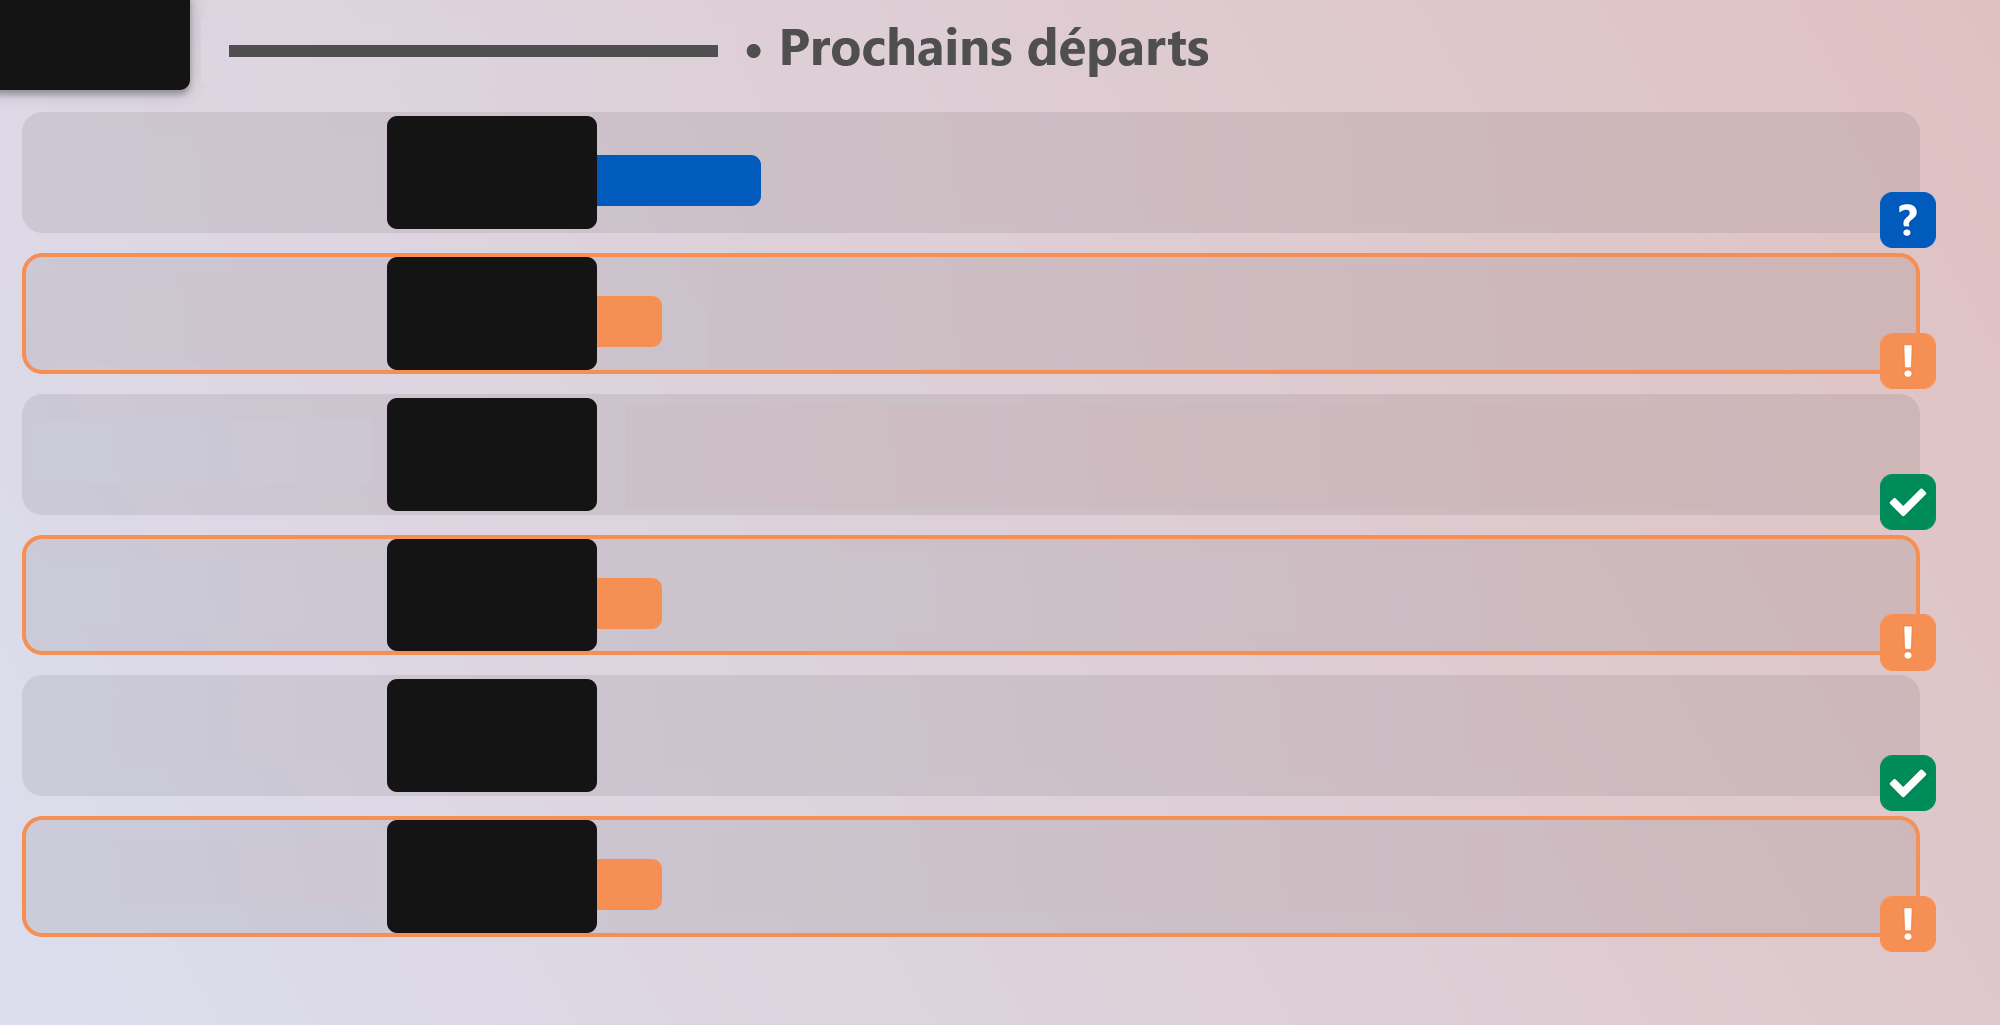
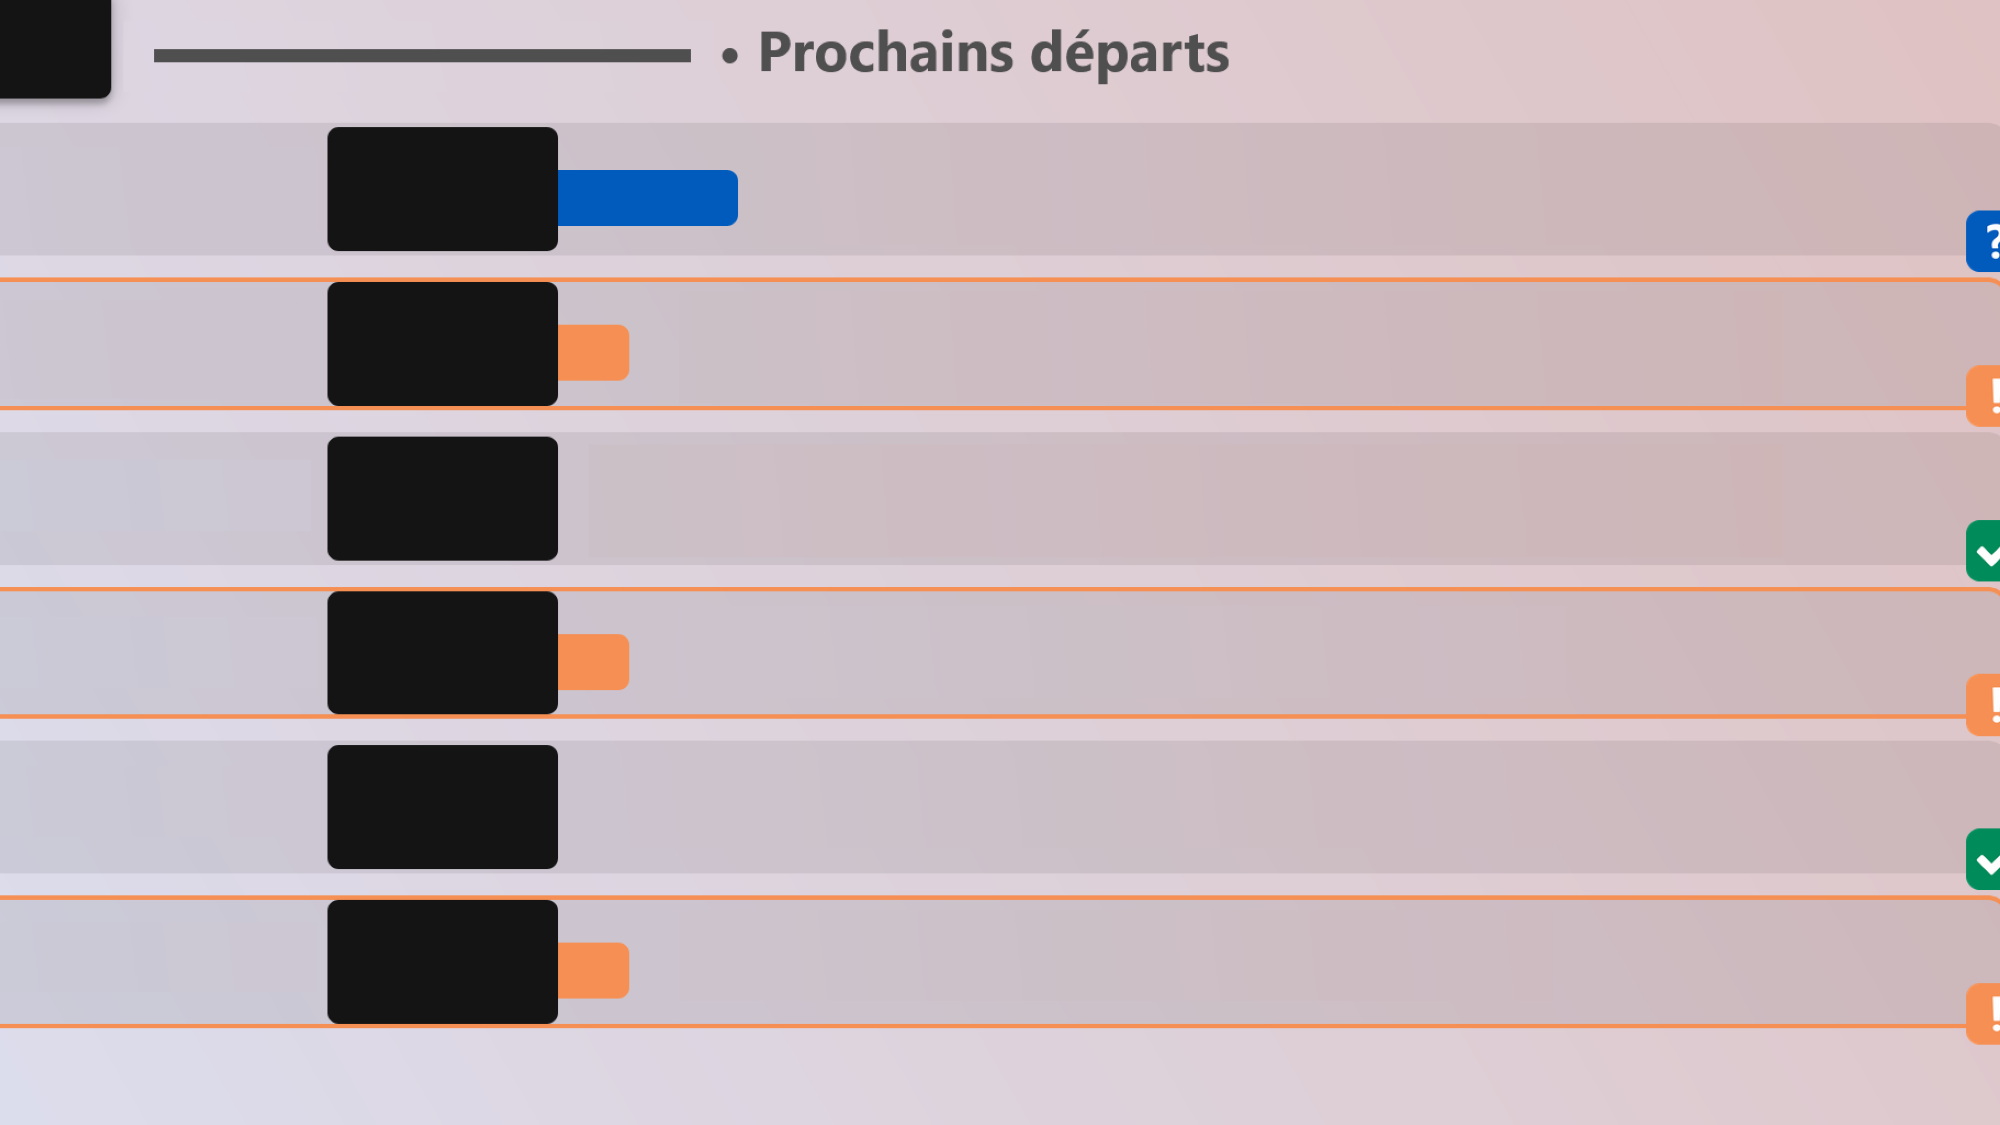
1.5.0 fix img

diff --git a/src/assets/css/main.css b/src/assets/css/main.css
@@ -123,8 +123,8 @@ code {
     background-size: contain;
     background-repeat: no-repeat;
     display: inline-block;
-    width: 18vw;
-	height: 10.2vw;
+    width: 16vw;
+	height: 9vw;
 	margin-left: 20px;
 	border-radius: 10px;
 	transition: all 250ms ease;
